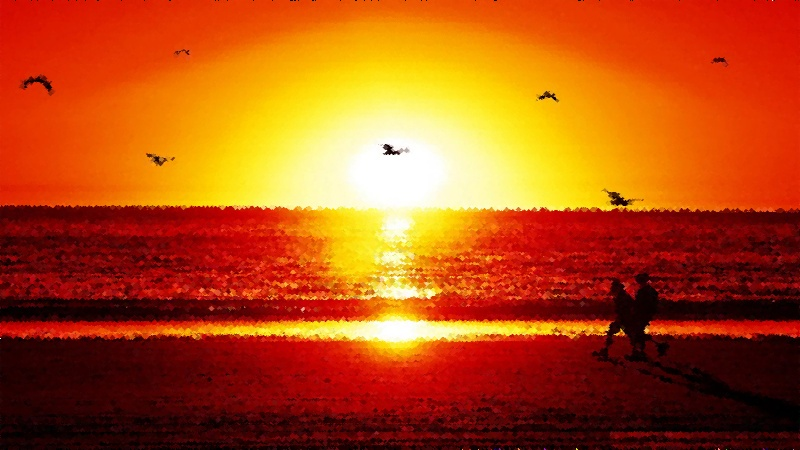
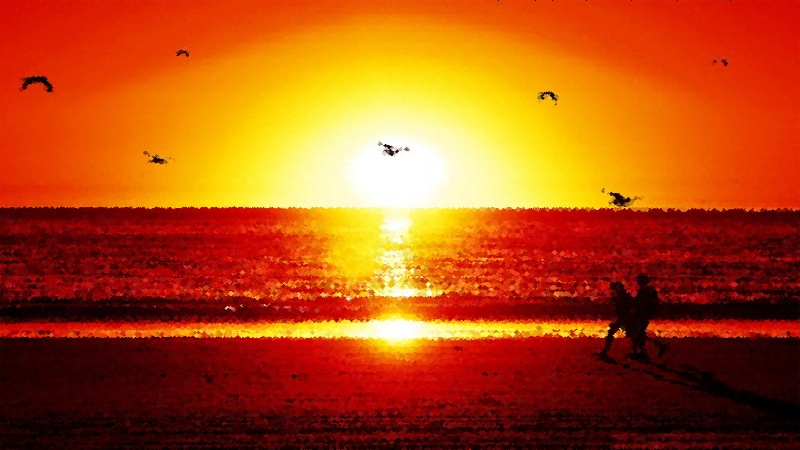
correção da imagem do segundo exercício da 2ª unidade

diff --git a/Unidade II/cannypoints/cannypoints.cpp b/Unidade II/cannypoints/cannypoints.cpp
@@ -23,7 +23,7 @@ int raio_max = 10;
 
 Mat cannyPoints;
 
-Mat image, border;
+Mat image, cannyImage;
 
 void on_trackbar_canny(int, void*){
 
@@ -38,7 +38,7 @@ void on_trackbar_canny(int, void*){
   width = image.size().width;
   height = image.size().height;
 
-  Canny(image, border, top_slider, 3*top_slider);  
+  Canny(image, cannyImage, top_slider, 3*top_slider);  
 
   if(step < 1) step = 1;
   if(jitter < 1) jitter = 1;
@@ -71,7 +71,7 @@ void on_trackbar_canny(int, void*){
       x = i+rand()%(2*jitter)-jitter+1;
       y = j+rand()%(2*jitter)-jitter+1;
 
-      gray = image.at<uchar>(x,y);
+      gray = cannyImage.at<uchar>(x,y);
 
       val[0] = (int)(image.at<Vec3b>(x,y)[2]);
       val[1] = (int)(image.at<Vec3b>(x,y)[1]);
@@ -93,6 +93,7 @@ void on_trackbar_canny(int, void*){
 int main(int argc, char**argv){  
 
   image = imread(argv[1],CV_LOAD_IMAGE_COLOR);  
+  
   //image = imread(argv[1],CV_LOAD_IMAGE_GRAYSCALE);
 
   //sprintf( TrackbarName, "Threshold inferior", top_slider_max );
